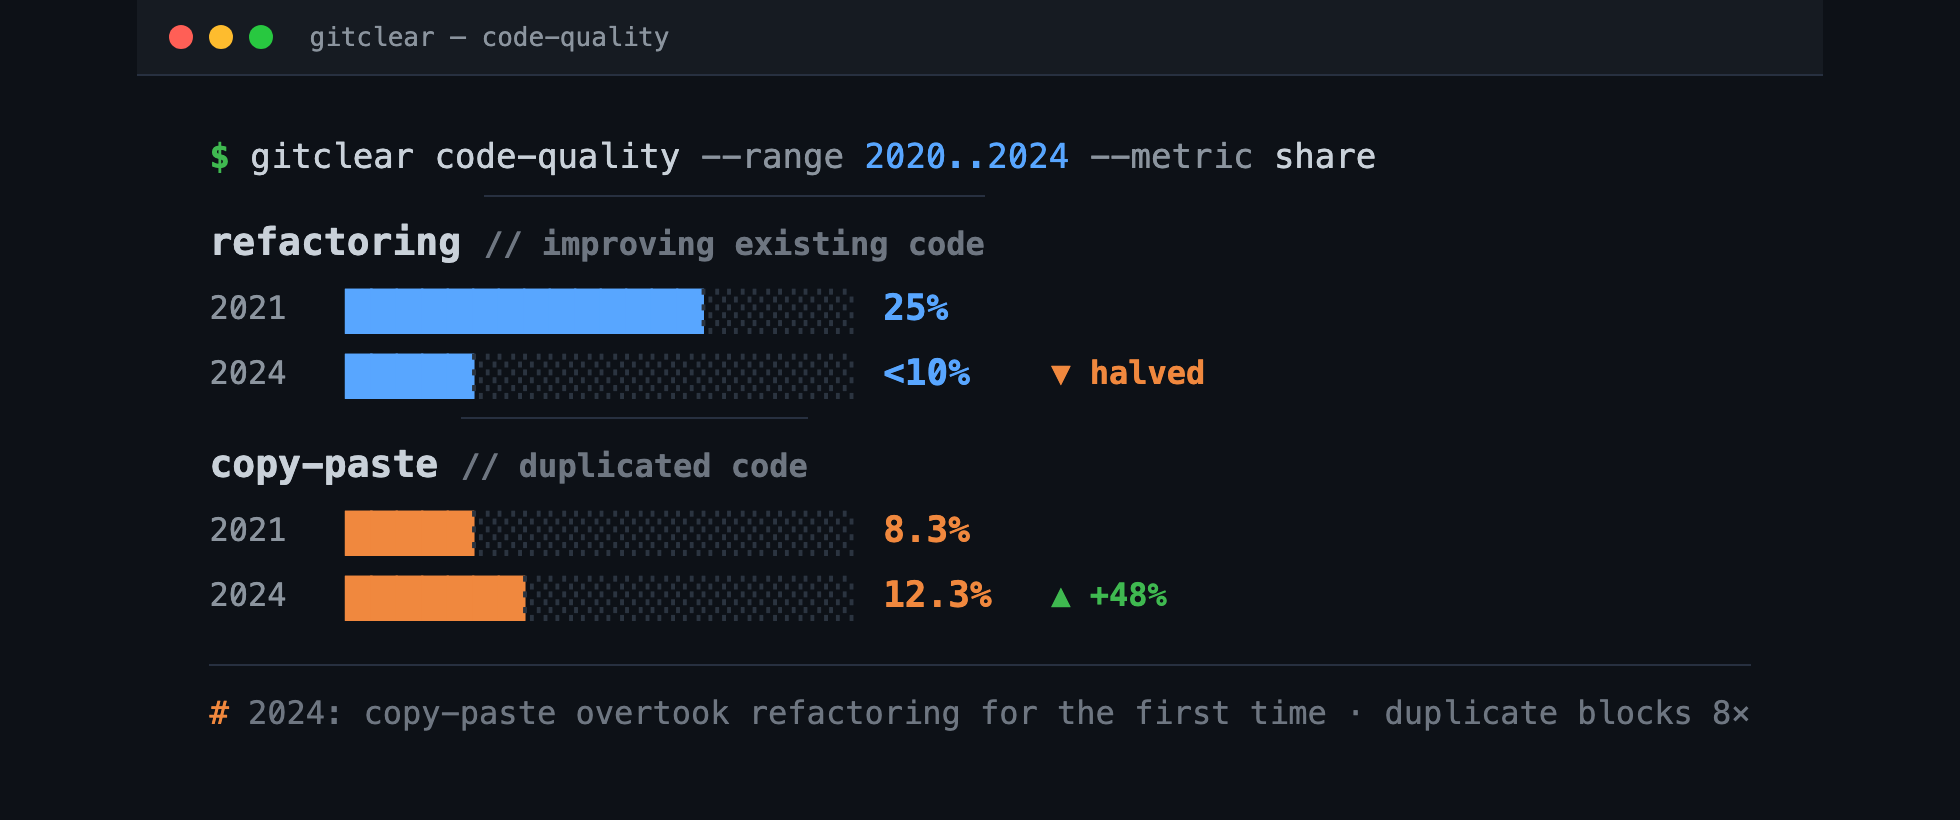
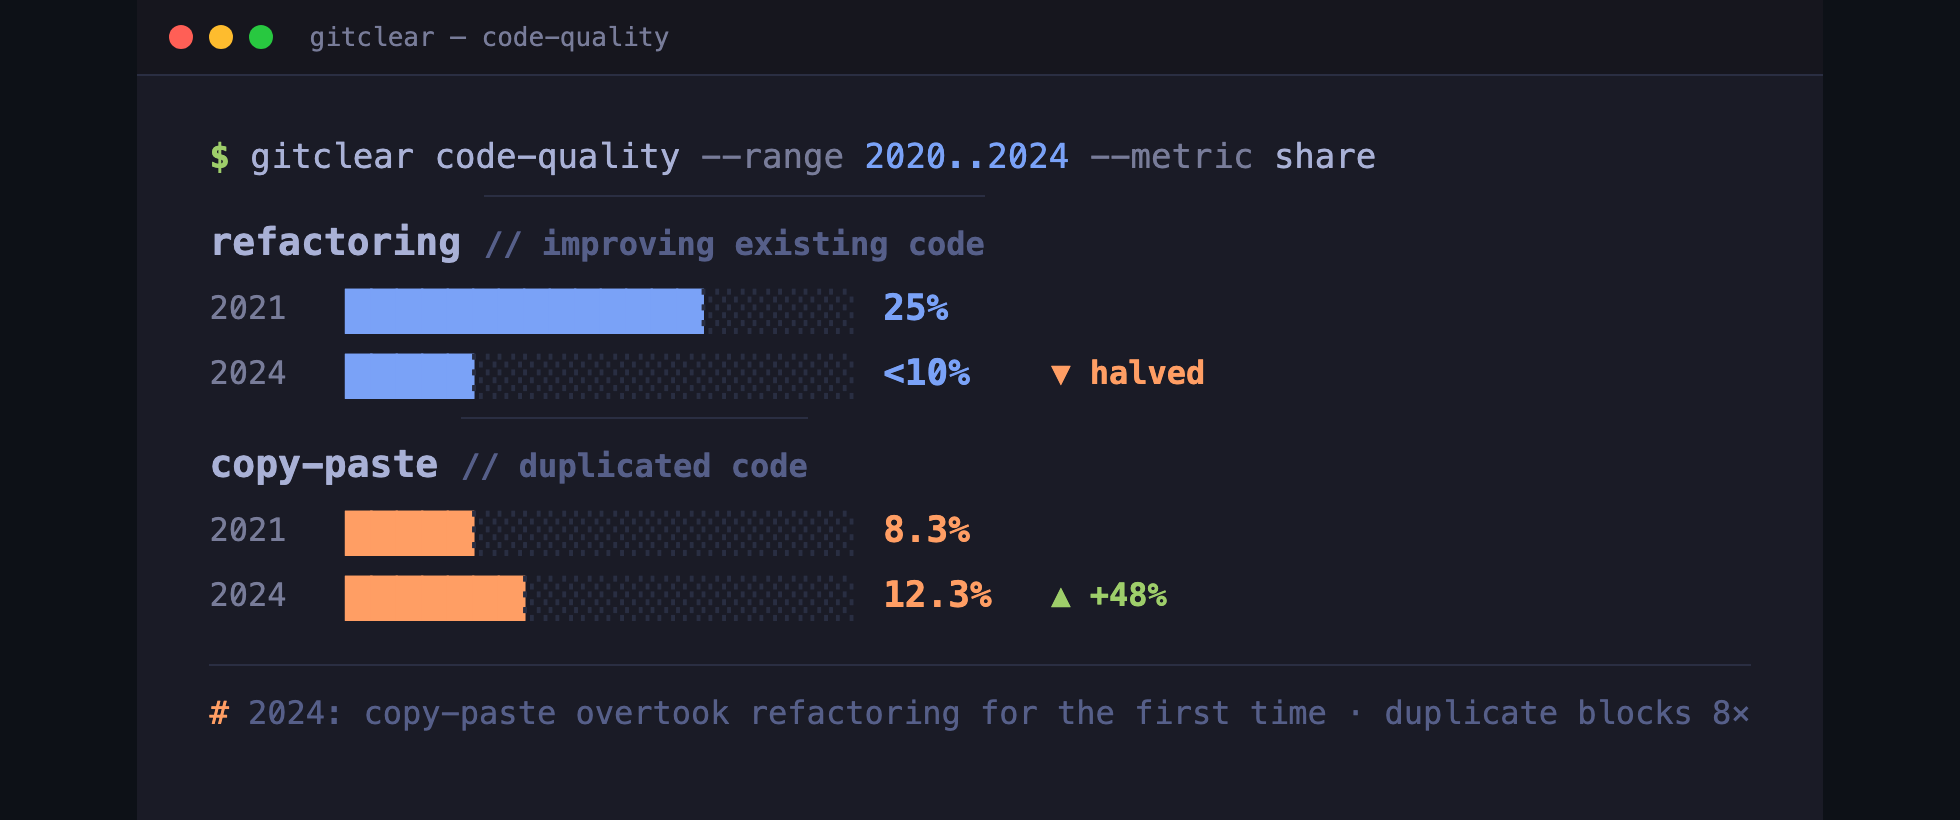
style: Switch chart palette to Tokyo Night
- Re-render terminal charts in Tokyo Night (navy #1a1b26 + periwinkle/peach)
- Update docs/blog-style.md palette + confirm Tokyo Night as house theme

diff --git a/scripts/blog-figures/term.css b/scripts/blog-figures/term.css
@@ -1,5 +1,5 @@
 *{margin:0;padding:0;box-sizing:border-box}
-:root{--bg:#0d1117;--panel:#161b22;--line:#273040;--tx:#c9d1d9;--dim:#8b949e;--cmt:#6e7681;--empty:#2b3440;--grn:#3fb950;--blu:#58a6ff;--org:#f0883e;--prpl:#bc8cff}
+:root{--bg:#1a1b26;--panel:#16161e;--line:#2a2e42;--tx:#a9b1d6;--dim:#787c99;--cmt:#565f89;--empty:#292e42;--grn:#9ece6a;--blu:#7aa2f7;--org:#ff9e64;--prpl:#bb9af7}
 html,body{font-family:ui-monospace,"SF Mono","Menlo","Roboto Mono",monospace;-webkit-print-color-adjust:exact;print-color-adjust:exact}
 .win{background:var(--bg);border:0;border-radius:0;overflow:hidden;height:100%}
 .bar{display:flex;align-items:center;gap:8px;padding:11px 16px;background:var(--panel);border-bottom:1px solid var(--line)}

diff --git a/scripts/blog-figures/t-hero.html b/scripts/blog-figures/t-hero.html
@@ -3,7 +3,7 @@
 <style>
   .page{width:860px;height:345px;background:#0d1117;display:flex;align-items:center;justify-content:center;padding:0}
   .body{padding:34px 40px}
-  .title{margin:6px 0 26px;font-size:38px;font-weight:800;letter-spacing:-.02em;color:#f0f6fc}
+  .title{margin:6px 0 26px;font-size:38px;font-weight:800;letter-spacing:-.02em;color:#c0caf5}
   .title .en{color:var(--blu)}
   .row{display:flex;align-items:center;gap:16px;font-size:26px;margin:14px 0}
   .row .lab{width:150px;color:var(--dim);font-size:19px}

diff --git a/docs/blog-style.md b/docs/blog-style.md
@@ -20,7 +20,9 @@ imweb 블로그(imweb.me/blog?idx=482) 문장 구조.
 - 소제목은 `##`/`###`. 번호 + 훅(`1. 신뢰의 역설 — 안 믿으면서 그대로 배포한다`). 질문형도 좋음(`무엇부터 해야 할까요?`).
 - **한 문단 2~3문장(120자 이내).** 벽 텍스트 금지. 문단 사이 여백 넉넉히.
 - **핵심 강조**: 용어·수치·브랜드명은 `**볼드**`, 문단당 1~2개(남발 금지).
-- **콜아웃**: 주의·팁·요약은 박스로 뺀다. `⚠ **주의** — …`, `💡 **팁** — …`, `결론부터.` (섹션당 최대 1개). 이 사이트에선 `BilingualArticle`의 `callout` 블록 타입.
+- **콜아웃**: 주의·팁·요약은 박스로 뺀다(섹션당 최대 1개). `BilingualArticle`의 `callout` 블록 타입 + `tone`.
+  - **아이콘 규칙(중요): 콜아웃 하나에 아이콘 딱 하나.** tone별 고정: `📌` tldr(결론부터/요약) · `⚠` warn(주의) · `💡` tip(팁).
+  - 아이콘은 텍스트에 인라인으로 넣지 말 것 → `tone` → `data-icon` → CSS `::before`로 렌더(언어 토글 시 innerHTML 교체돼도 아이콘 보존). 이모지 남발 금지.
 - **목록**: 3개 이상 나열은 문단이 아니라 불릿(`-`).
 - 톤: 존댓말 대화체. 독자에게 말 건다. 본인 관점(백엔드·AI 엔지니어)은 과하지 않게 한 줄.
 
@@ -34,10 +36,12 @@ imweb 블로그(imweb.me/blog?idx=482) 문장 구조.
 
 - 다크 터미널 창: 신호등 점 3개 + 파일명 타이틀바 + monospace + `$` 프롬프트 + `#` 주석.
 - 바는 유니코드 블록(`█` 채움 / `░` 빈칸), `letter-spacing:-.5~-1px`로 solid하게.
-- 팔레트: bg `#0d1117`, panel `#161b22`, line `#273040`, text `#c9d1d9`, dim `#8b949e`,
-  파랑 `#58a6ff`, 초록(프롬프트/상승) `#3fb950`, 주황(하락/경고) `#f0883e`, 보라 `#bc8cff`.
+- 팔레트: **Tokyo Night** — bg `#1a1b26`, panel `#16161e`, line `#2a2e42`, text `#a9b1d6`, dim `#787c99`,
+  comment `#565f89`, empty `#292e42`, 파랑 `#7aa2f7`, 초록(프롬프트/상승) `#9ece6a`, 주황(하락/경고) `#ff9e64`, 보라 `#bb9af7`. 히어로 타이틀만 밝게 `#c0caf5`.
 - 차트 텍스트는 영어(터미널 관례) → ko/en 글이 같은 이미지 공유.
 - **PNG는 터미널이 끝까지 꽉 차게**(바깥 프레임/여백 금지). 사이트의 `prose-img` 테두리·라운딩이 프레임 역할.
+- **캔버스 폭은 콘텐츠에 맞춘다.** 터미널 텍스트는 왼쪽 정렬이라 캔버스가 넓으면 오른쪽에 검정 여백이 뜬다 → 콘텐츠(제목·바) 폭 + 패딩 정도로 좁혀서 꽉 차게(예: 히어로 860px, 도구 940px). 세로도 콘텐츠에 맞게 트림.
+- **팔레트는 Tokyo Night로 확정**(2026-07-14, 사용자 선택: GitHub Dark·Dracula 후보 중). 위 §4 hex 그대로. 다른 테마로 스왑하려면 `scripts/blog-figures/term.css`의 `:root` 변수만 교체 후 재렌더.
 - 소스: `scripts/blog-figures/` (term.css + t-*.html). 렌더: Chrome headless `--force-device-scale-factor=2` → `public/assets/`.
 - generic "AI 대시보드" 느낌 금지 — 이 터미널 톤으로 통일.
 
